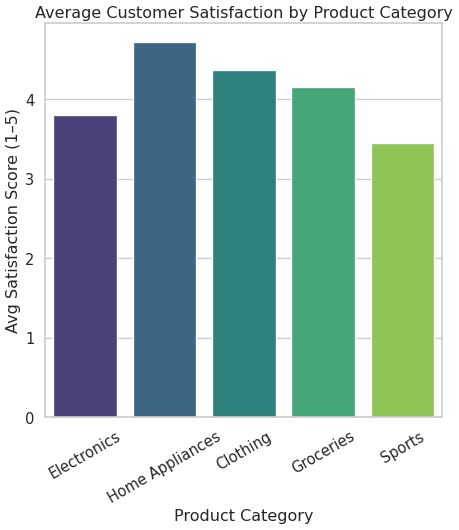
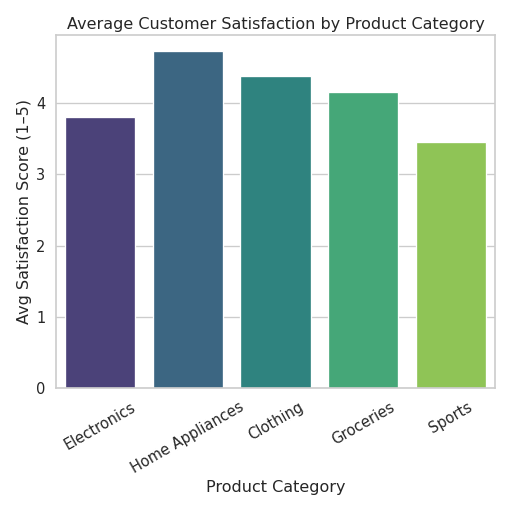
n

Changed region(s): [[0.0, 0.0, 1.0, 0.9375], [0.366, 0.9375, 0.671, 1.0]]

diff --git a/project/chart.py b/project/chart.py
@@ -1,25 +1,24 @@
 import seaborn as sns
 import matplotlib.pyplot as plt
 import pandas as pd
-import numpy as np
+import numpy.random as npr
 
 # Professional Seaborn style
 sns.set_style("whitegrid")
 sns.set_context("talk")
 
-# ---- Generate Synthetic Business Data ----
-np.random.seed(42)
-
+# Generate synthetic data
+npr.seed(42)
 categories = ["Electronics", "Home Appliances", "Clothing", "Groceries", "Sports"]
-avg_scores = np.random.uniform(3.2, 4.8, size=len(categories))
+scores = npr.uniform(3.2, 4.8, size=len(categories))
 
 df = pd.DataFrame({
     "Product Category": categories,
-    "Avg Satisfaction Score": avg_scores
+    "Avg Satisfaction Score": scores
 })
 
-# ---- Create Barplot ----
-plt.figure(figsize=(8, 8))  # 8×8 inches at 64 dpi → 512×512 pixels
+# Create exact 512×512 figure
+plt.figure(figsize=(8, 8), dpi=64)  # 8 inches * 64 DPI = 512 px
 
 sns.barplot(
     data=df,
@@ -33,6 +32,8 @@ plt.xlabel("Product Category")
 plt.ylabel("Avg Satisfaction Score (1–5)")
 plt.xticks(rotation=30)
 
-# ---- Export the Chart ----
-plt.savefig("chart.png", dpi=64, bbox_inches="tight")
+plt.tight_layout()  # Do NOT use bbox_inches='tight' when saving
+
+# Save WITHOUT bbox_inches to keep exact size
+plt.savefig("chart.png", dpi=64)
 plt.close()
